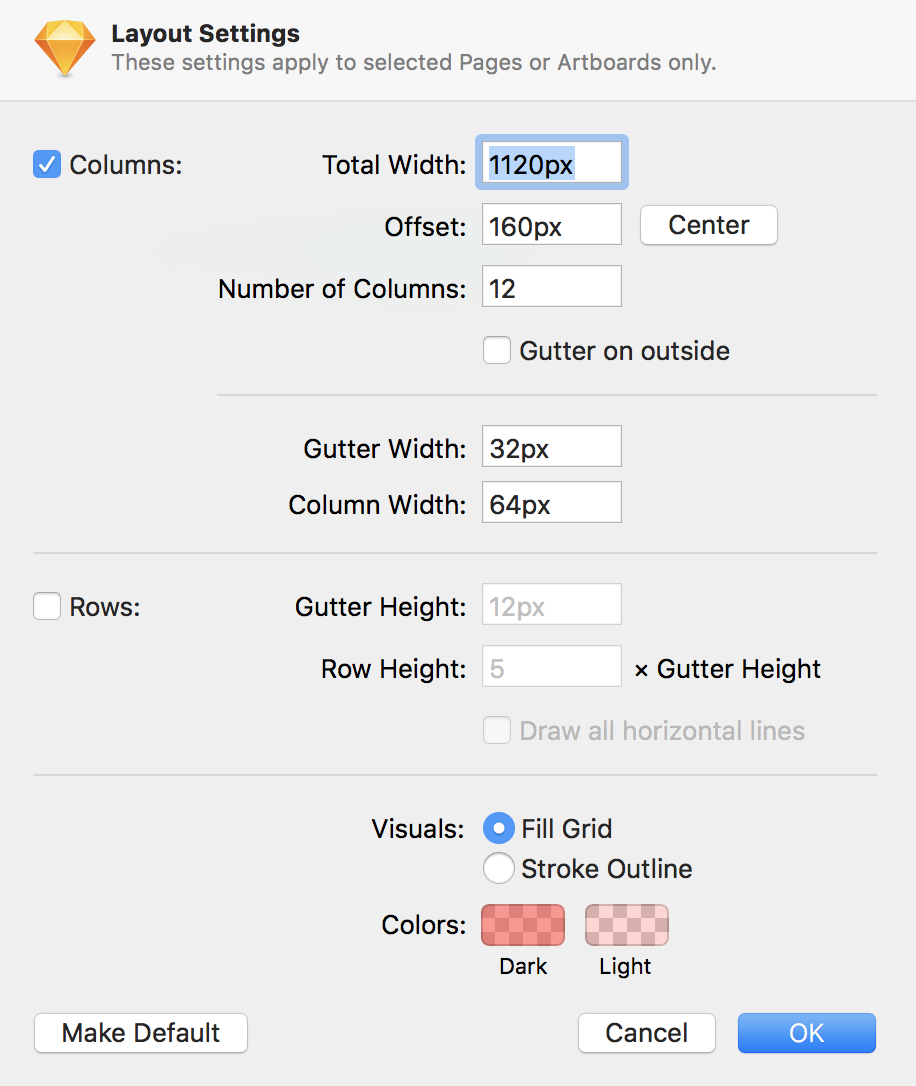
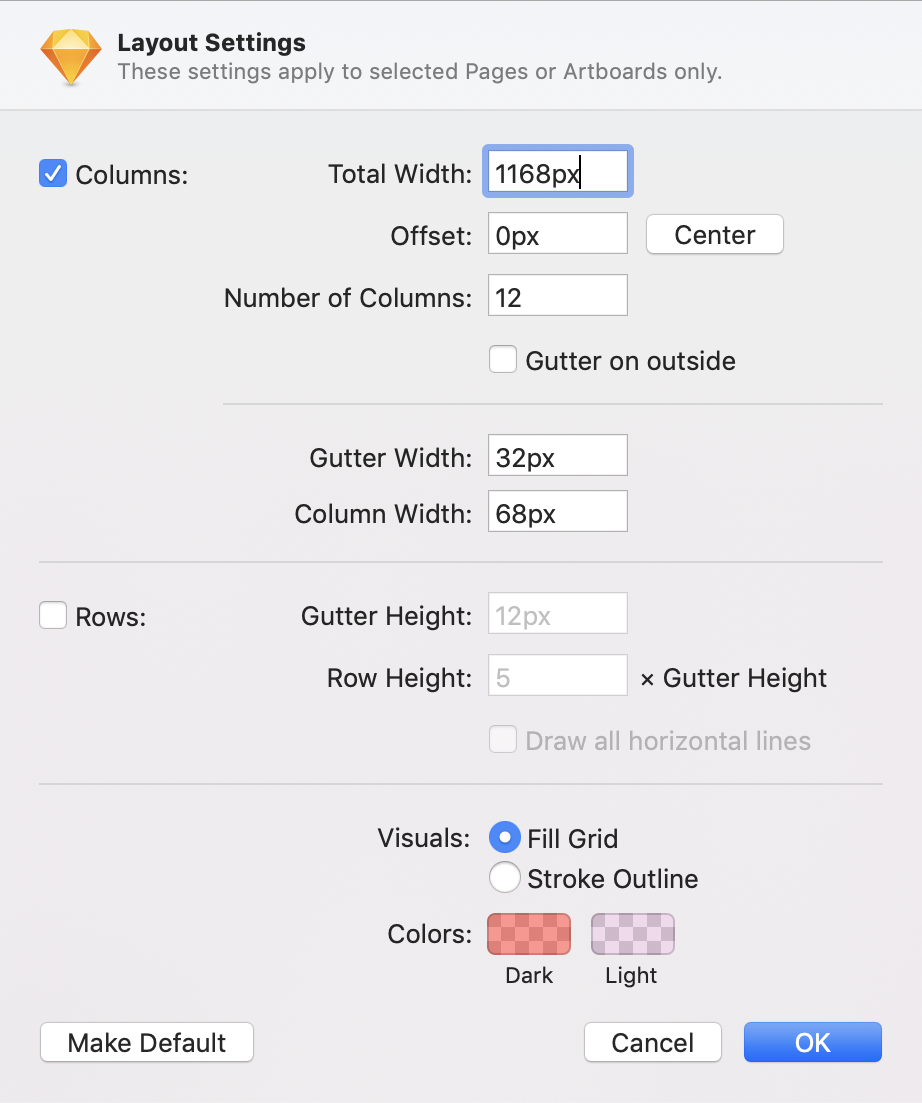
change(styleguide): Update Sketch settings screenshot (#49)

diff --git a/CHANGELOG.md b/CHANGELOG.md
@@ -1,5 +1,9 @@
 ## [Unreleased]
 
+### Changed
+
+- Update Sketch settings screenshot.
+
 ## [3.1.3] - 2018-12-03
 
 ### Changed
